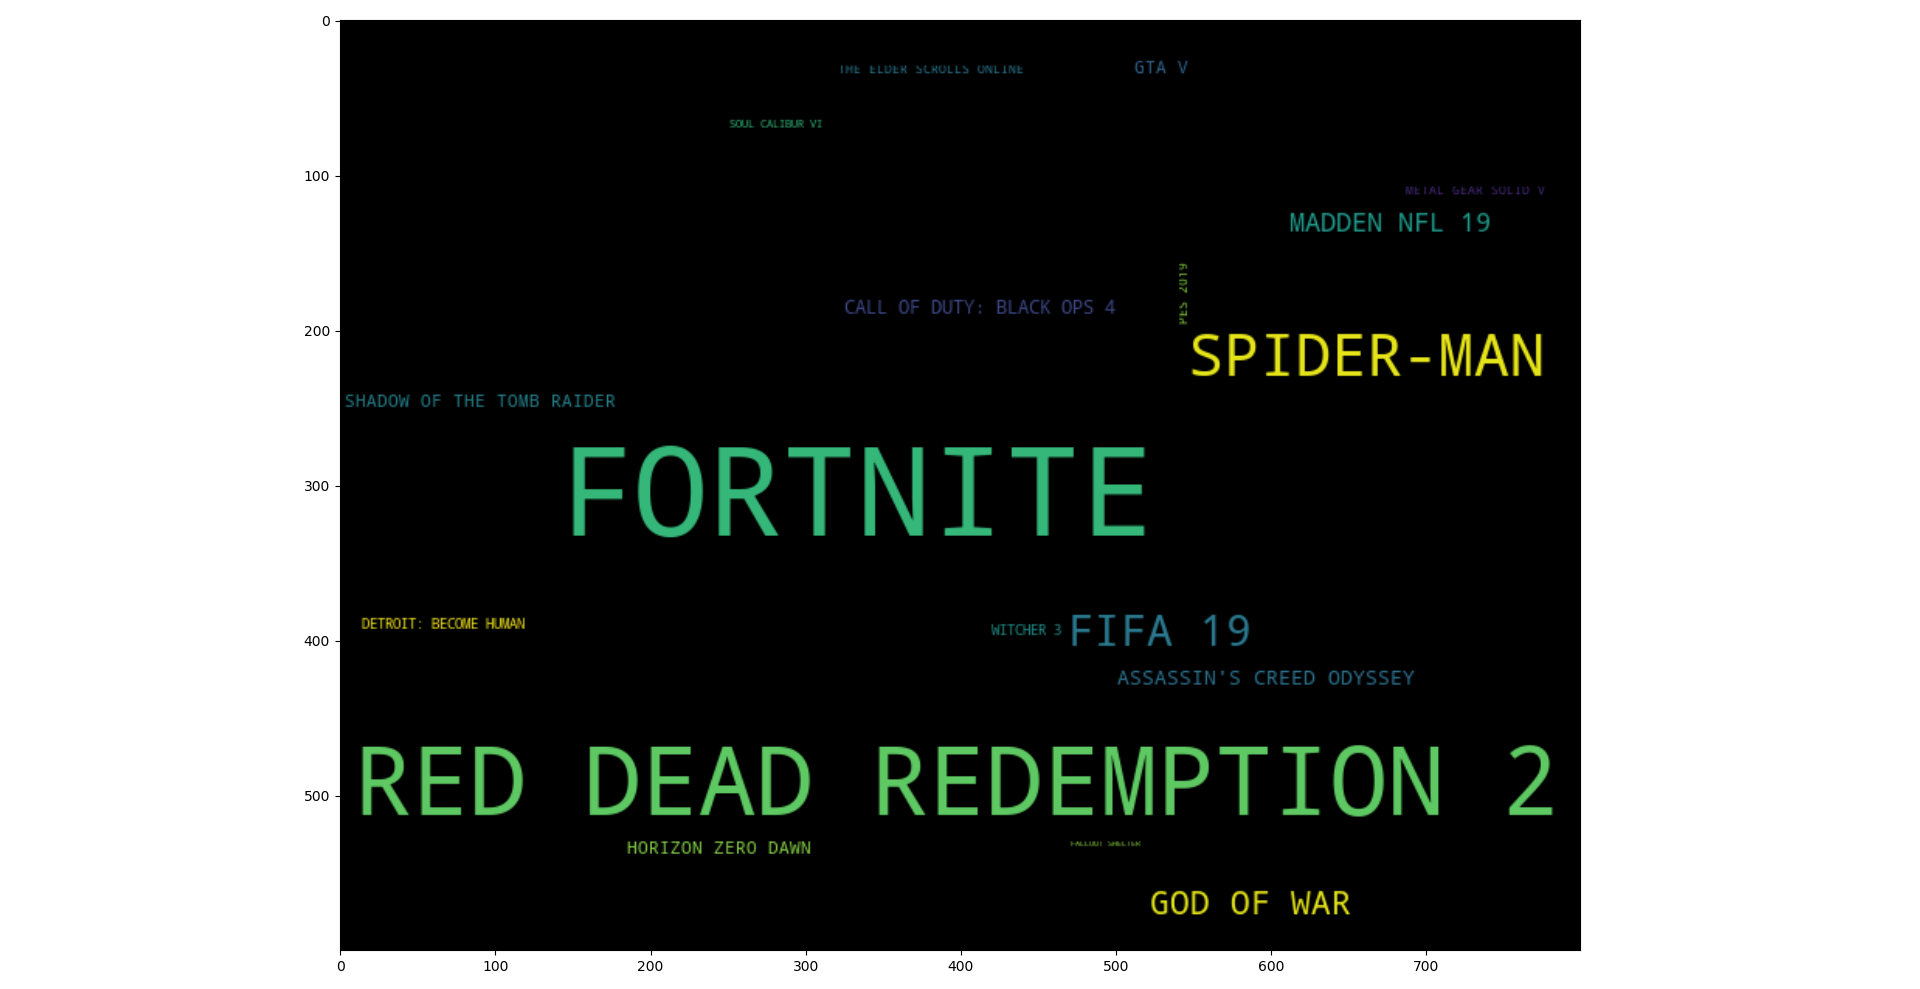
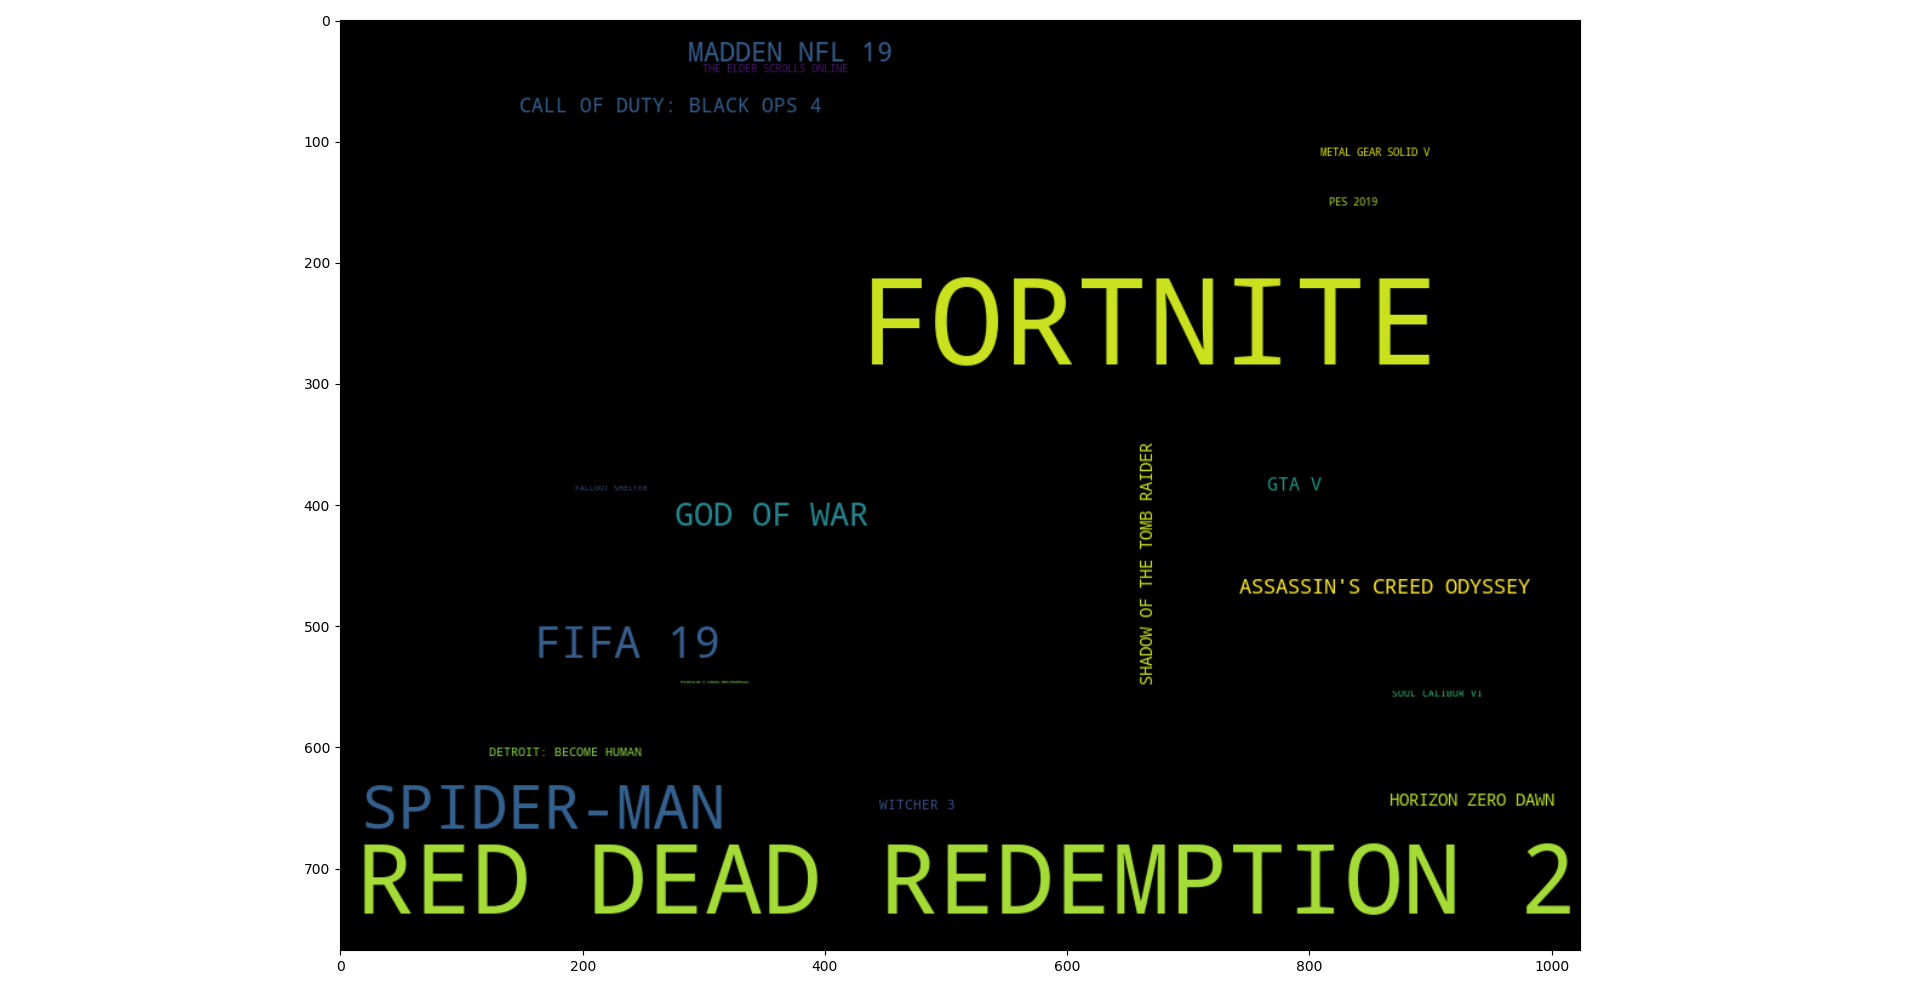
Melhora na visualização da wordcloud.

diff --git a/visualiza_dados.py b/visualiza_dados.py
@@ -44,6 +44,6 @@ pprint.pprint(frequencia_jogo)
 #plt.plot(figsize=(1024, 768))
 #plt.show()
 
-wordcloud = WordCloud(width=800, height=600).generate_from_frequencies(frequencia_jogo, 80)
+wordcloud = WordCloud(width=1024, height=768).generate_from_frequencies(frequencia_jogo, 100)
 plt.imshow(wordcloud, interpolation='bilinear')
 plt.show()
